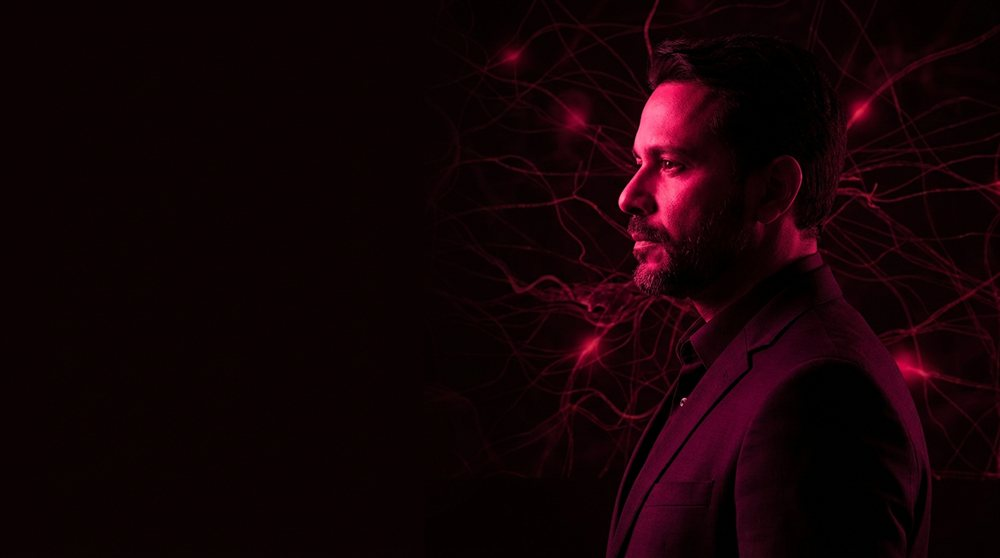
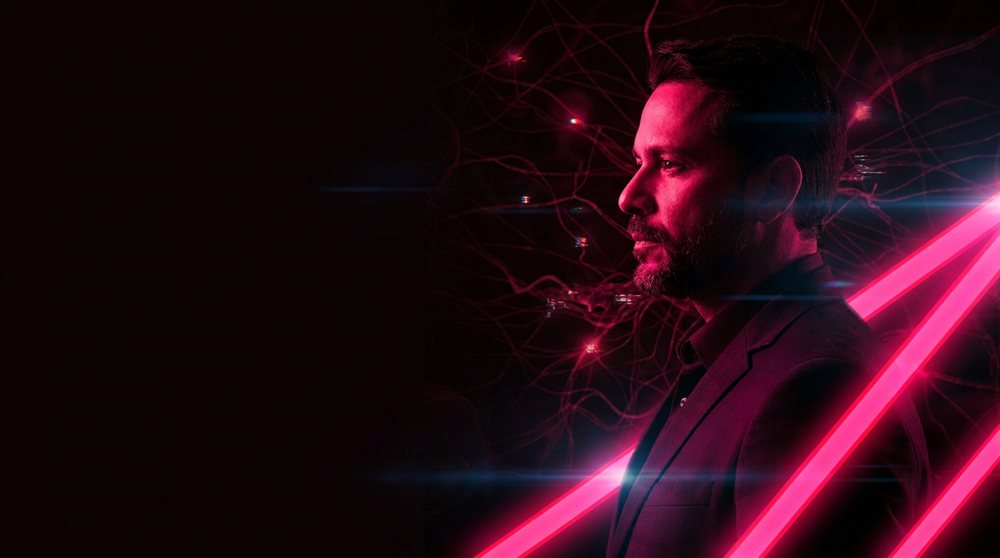
Pos Tech: capas de DPM e IA no mesmo estilo da de Tech Management

diff --git a/pos-tech.html b/pos-tech.html
@@ -80,8 +80,8 @@
       <p class="lead">As três têm a mesma estrutura: 10 meses, 360 horas, projeto prático e certificado reconhecido pelo MEC. Escolha pelo momento da sua carreira.</p>
     </div>
     <div class="trio pos-trio" data-nota="Cada pós ganha a sua página no modelo de produto (como a Formação), em /pos-tech/digital-product-management/ e assim por diante. Capas geradas no Magnific (pessoas fictícias). A antiga tabela comparativa foi incorporada aos cards (para quem / ao concluir).">
-      <a class="f-card pos-card reveal" href="#"><div class="f-vis" style="background-image:url('assets/capas/pos/dpm.jpg?v=3')" aria-hidden="true"></div><div class="f-body"><div class="top"><span class="tag tag-area">Pós-graduação</span><span class="pc-n">01</span></div><h3>Digital Product Management</h3><p>Gerencie todas as fases do ciclo de vida de um produto digital, do conceito à execução, com IA, no-code e low-code.</p><dl class="pc-dl"><div><dt>Para quem</dt><dd>Profissionais de qualquer área e empreendedores</dd></div><div><dt>Ao concluir</dt><dd>Criar e evoluir produtos, de MVPs ao growth</dd></div></dl><ul class="f-facts"><li><svg viewBox="0 0 16 16" fill="none" stroke="currentColor" stroke-width="1.6" aria-hidden="true"><circle cx="8" cy="8" r="6.2"/><path d="M8 4.6V8l2.4 1.6"/></svg>10 meses · 360h</li><li><svg viewBox="0 0 16 16" fill="none" stroke="currentColor" stroke-width="1.6" aria-hidden="true"><circle cx="8" cy="6.2" r="4.2"/><path d="m5.6 9.6-1.1 4.8L8 12.8l3.5 1.6-1.1-4.8"/></svg>Certificado MEC</li></ul><div class="meta"><span>Ver a pós</span><span class="go"><svg viewBox="0 0 16 16" fill="none" stroke="currentColor" stroke-width="2"><path d="M2 8h11M9 4l4 4-4 4"/></svg></span></div></div></a>
-      <a class="f-card pos-card reveal" data-d="1" href="#"><div class="f-vis" style="background-image:url('assets/capas/pos/ia.jpg?v=3')" aria-hidden="true"></div><div class="f-body"><div class="top"><span class="tag tag-area">Pós-graduação</span><span class="pc-n">02</span></div><h3>IA para Negócios</h3><p>Gestão estratégica e liderança: visão integrada de negócios, inovação com IA e times de alta performance.</p><dl class="pc-dl"><div><dt>Para quem</dt><dd>Quem já ocupa ou quer ocupar cargos de liderança</dd></div><div><dt>Ao concluir</dt><dd>Decidir e liderar com visão estratégica</dd></div></dl><ul class="f-facts"><li><svg viewBox="0 0 16 16" fill="none" stroke="currentColor" stroke-width="1.6" aria-hidden="true"><circle cx="8" cy="8" r="6.2"/><path d="M8 4.6V8l2.4 1.6"/></svg>10 meses · 360h</li><li><svg viewBox="0 0 16 16" fill="none" stroke="currentColor" stroke-width="1.6" aria-hidden="true"><circle cx="8" cy="6.2" r="4.2"/><path d="m5.6 9.6-1.1 4.8L8 12.8l3.5 1.6-1.1-4.8"/></svg>Certificado MEC</li></ul><div class="meta"><span>Ver a pós</span><span class="go"><svg viewBox="0 0 16 16" fill="none" stroke="currentColor" stroke-width="2"><path d="M2 8h11M9 4l4 4-4 4"/></svg></span></div></div></a>
+      <a class="f-card pos-card reveal" href="#"><div class="f-vis" style="background-image:url('assets/capas/pos/dpm.jpg?v=4')" aria-hidden="true"></div><div class="f-body"><div class="top"><span class="tag tag-area">Pós-graduação</span><span class="pc-n">01</span></div><h3>Digital Product Management</h3><p>Gerencie todas as fases do ciclo de vida de um produto digital, do conceito à execução, com IA, no-code e low-code.</p><dl class="pc-dl"><div><dt>Para quem</dt><dd>Profissionais de qualquer área e empreendedores</dd></div><div><dt>Ao concluir</dt><dd>Criar e evoluir produtos, de MVPs ao growth</dd></div></dl><ul class="f-facts"><li><svg viewBox="0 0 16 16" fill="none" stroke="currentColor" stroke-width="1.6" aria-hidden="true"><circle cx="8" cy="8" r="6.2"/><path d="M8 4.6V8l2.4 1.6"/></svg>10 meses · 360h</li><li><svg viewBox="0 0 16 16" fill="none" stroke="currentColor" stroke-width="1.6" aria-hidden="true"><circle cx="8" cy="6.2" r="4.2"/><path d="m5.6 9.6-1.1 4.8L8 12.8l3.5 1.6-1.1-4.8"/></svg>Certificado MEC</li></ul><div class="meta"><span>Ver a pós</span><span class="go"><svg viewBox="0 0 16 16" fill="none" stroke="currentColor" stroke-width="2"><path d="M2 8h11M9 4l4 4-4 4"/></svg></span></div></div></a>
+      <a class="f-card pos-card reveal" data-d="1" href="#"><div class="f-vis" style="background-image:url('assets/capas/pos/ia.jpg?v=4')" aria-hidden="true"></div><div class="f-body"><div class="top"><span class="tag tag-area">Pós-graduação</span><span class="pc-n">02</span></div><h3>IA para Negócios</h3><p>Gestão estratégica e liderança: visão integrada de negócios, inovação com IA e times de alta performance.</p><dl class="pc-dl"><div><dt>Para quem</dt><dd>Quem já ocupa ou quer ocupar cargos de liderança</dd></div><div><dt>Ao concluir</dt><dd>Decidir e liderar com visão estratégica</dd></div></dl><ul class="f-facts"><li><svg viewBox="0 0 16 16" fill="none" stroke="currentColor" stroke-width="1.6" aria-hidden="true"><circle cx="8" cy="8" r="6.2"/><path d="M8 4.6V8l2.4 1.6"/></svg>10 meses · 360h</li><li><svg viewBox="0 0 16 16" fill="none" stroke="currentColor" stroke-width="1.6" aria-hidden="true"><circle cx="8" cy="6.2" r="4.2"/><path d="m5.6 9.6-1.1 4.8L8 12.8l3.5 1.6-1.1-4.8"/></svg>Certificado MEC</li></ul><div class="meta"><span>Ver a pós</span><span class="go"><svg viewBox="0 0 16 16" fill="none" stroke="currentColor" stroke-width="2"><path d="M2 8h11M9 4l4 4-4 4"/></svg></span></div></div></a>
       <a class="f-card pos-card reveal" data-d="2" href="#"><div class="f-vis" style="background-image:url('assets/capas/pos/tech.jpg?v=4')" aria-hidden="true"></div><div class="f-body"><div class="top"><span class="tag tag-area">Pós-graduação</span><span class="pc-n">03</span></div><h3>Tech Management</h3><p>Comunicação, negociação e liderança de times para conectar tecnologia a valor de negócio.</p><dl class="pc-dl"><div><dt>Para quem</dt><dd>Quem quer se tornar Tech Lead</dd></div><div><dt>Ao concluir</dt><dd>Conectar tecnologia e valor de negócio</dd></div></dl><ul class="f-facts"><li><svg viewBox="0 0 16 16" fill="none" stroke="currentColor" stroke-width="1.6" aria-hidden="true"><circle cx="8" cy="8" r="6.2"/><path d="M8 4.6V8l2.4 1.6"/></svg>10 meses · 360h</li><li><svg viewBox="0 0 16 16" fill="none" stroke="currentColor" stroke-width="1.6" aria-hidden="true"><circle cx="8" cy="6.2" r="4.2"/><path d="m5.6 9.6-1.1 4.8L8 12.8l3.5 1.6-1.1-4.8"/></svg>Certificado MEC</li></ul><div class="meta"><span>Ver a pós</span><span class="go"><svg viewBox="0 0 16 16" fill="none" stroke="currentColor" stroke-width="2"><path d="M2 8h11M9 4l4 4-4 4"/></svg></span></div></div></a>
     </div>
   </div>
